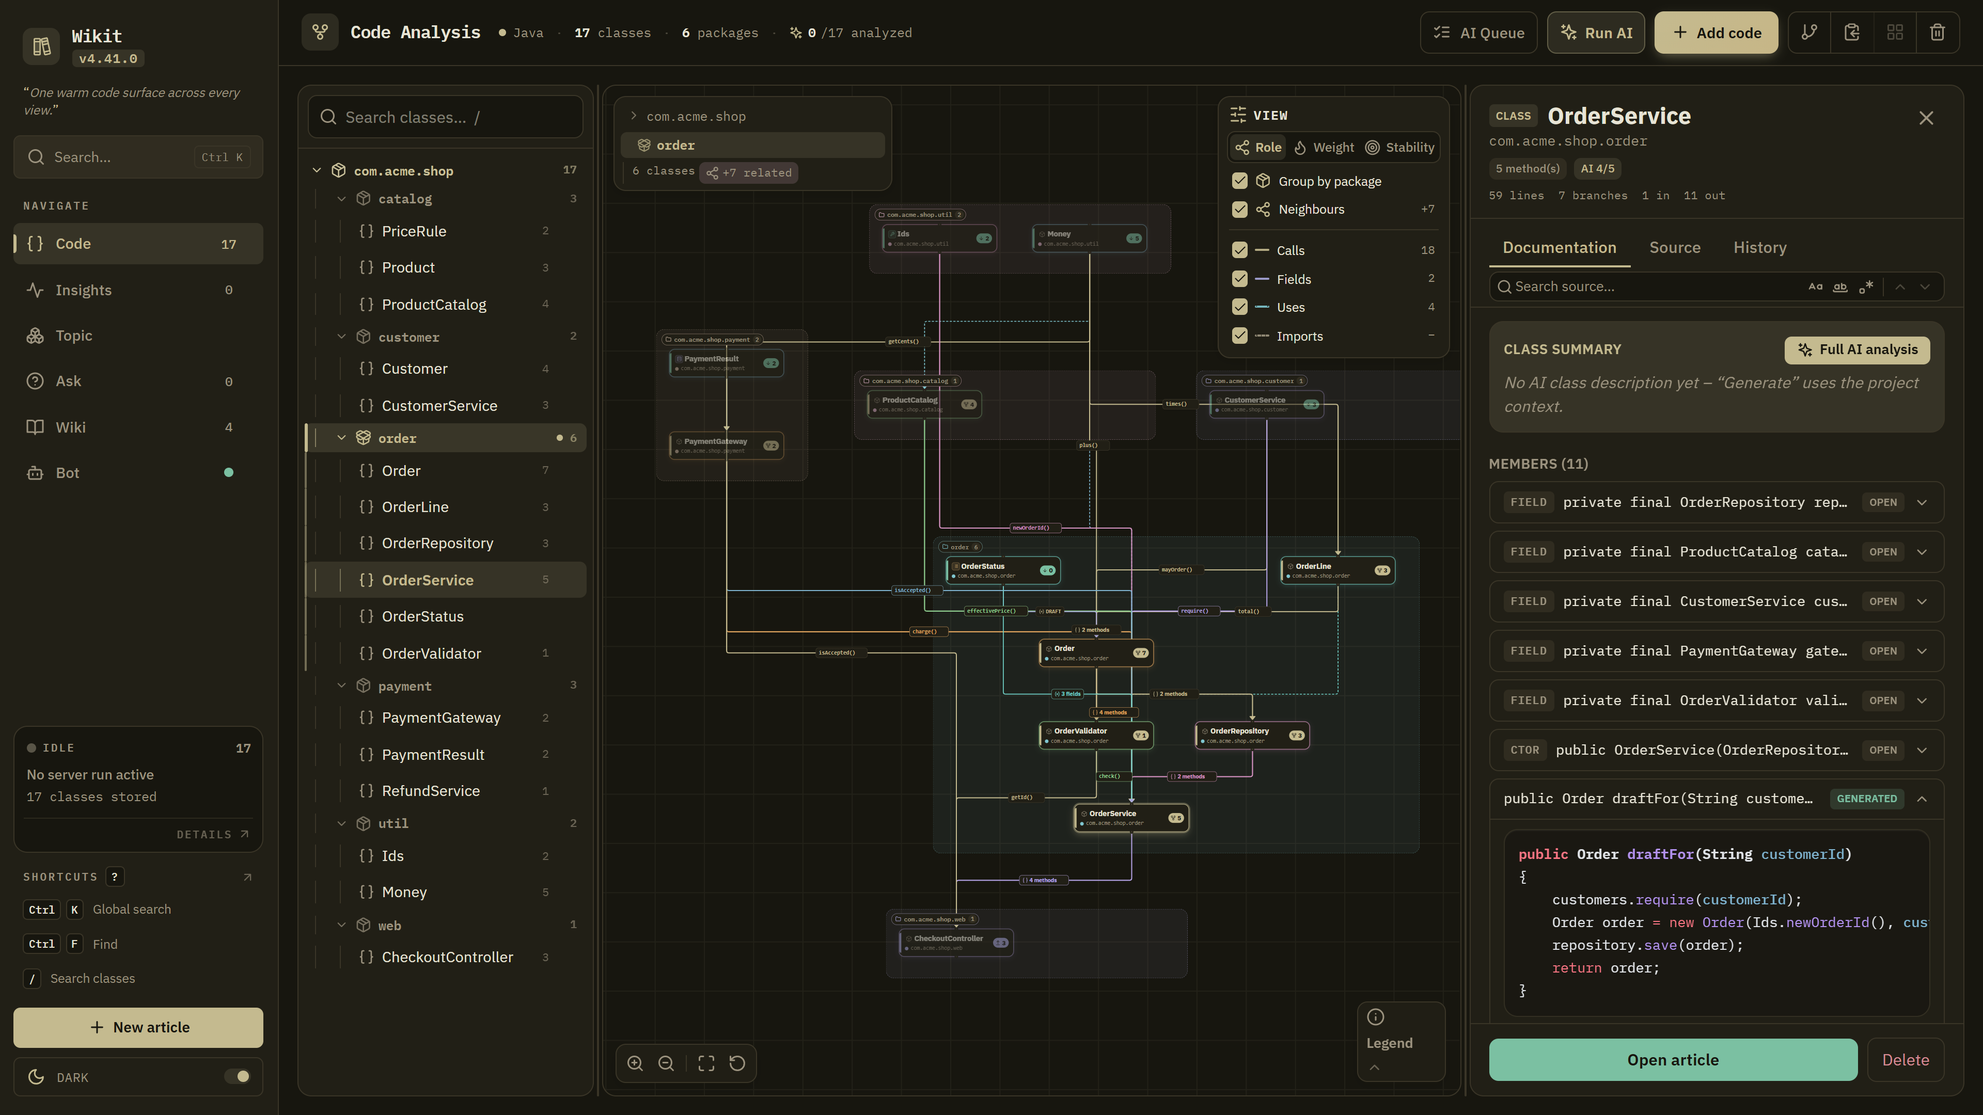
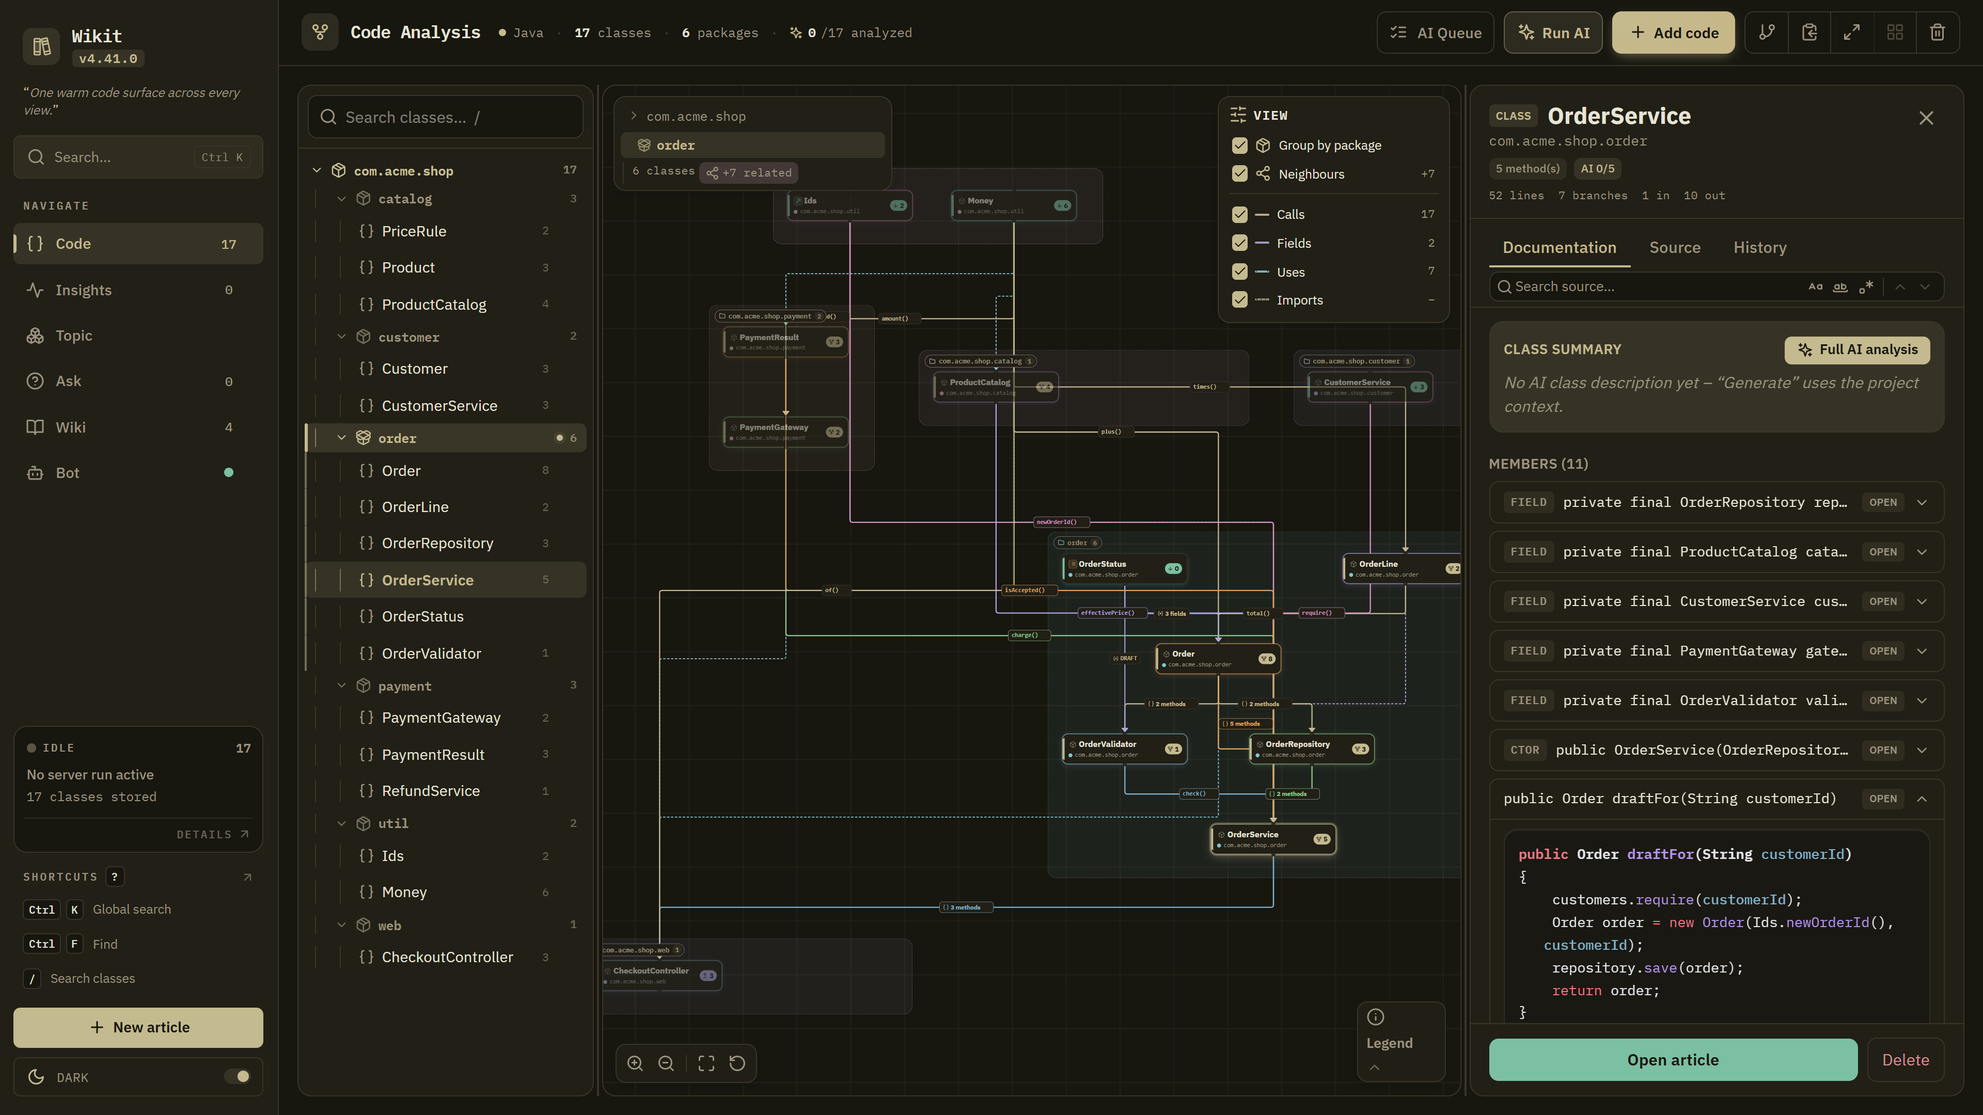
upd: wrapped code and wide detail panel

diff --git a/frontend/src/composables/usePanelResize.js b/frontend/src/composables/usePanelResize.js
@@ -5,6 +5,10 @@
 // Die zwei `{R}px`-Tracks sind die Divider; fr verteilt den Restplatz proportional, die
 // Mindestbreite (MIN) bleibt sauber erhalten.
 //
+// Drei Wege, die Breiten zu aendern, und sie unterscheiden sich in ihrer Verbindlichkeit:
+// Ziehen (Einstellung, bleibt) · `toggleWide` (Entscheidung, bleibt, mit Rueckweg) ·
+// `focusRight` (geliehen, wird beim naechsten Klick zurueckgegeben).
+//
 // View-lokaler State (frische Instanz pro Aufruf, KEIN Modul-Singleton) – kein Pinia/Vuex.
 // Drag-Listener haengen am `window`, damit das Ziehen nicht abbricht, wenn die Maus den
 // schmalen Divider (oder den Graphen) verlaesst. Eingestellte Breiten ueberleben einen
@@ -35,17 +39,6 @@ function isValidTriple(v) {
 export function usePanelResize() {
   const widths = reactive({ ...DEFAULTS })
 
-  // Persistierte Aufteilung wiederherstellen (best effort).
-  try {
-    const raw = localStorage.getItem(STORAGE_KEY)
-    if (raw) {
-      const parsed = JSON.parse(raw)
-      if (isValidTriple(parsed)) Object.assign(widths, parsed)
-    }
-  } catch {
-    /* localStorage nicht verfuegbar -> Defaults */
-  }
-
   const isDragging = ref(false)
   const activeKey = ref(null) // 'left' | 'right' | null -> hebt den gezogenen Divider hervor
 
@@ -59,6 +52,36 @@ export function usePanelResize() {
   // gut ein Drittel und bleibt damit lesbar – auf 52 % schrumpfte er auf einen Streifen.
   const FOCUS_RIGHT = 44
   const isFocused = computed(() => borrowed.value !== null)
+
+  // --- Breit lesen -------------------------------------------------------------------------
+  // Anders als die geliehene Breite ist das eine ENTSCHEIDUNG: sie bleibt, bis man sie zuruecknimmt,
+  // und ueberlebt deshalb auch den Reload. Der Platz kommt aus der MITTE – den Graphen liest
+  // niemand, waehrend er eine Klasse liest. Links bleibt stehen, was es ist: die Navigation, mit der
+  // man zur naechsten Klasse kommt. `stash` haelt die Aufteilung von vorher.
+  const wide = ref(false)
+  let stash = null
+
+  // Persistierte Aufteilung wiederherstellen (best effort). Steht hinter den Deklarationen, weil der
+  // gemerkte Stand auch den Breit-Modus umfasst.
+  try {
+    const raw = localStorage.getItem(STORAGE_KEY)
+    if (raw) {
+      const parsed = JSON.parse(raw)
+      if (isValidTriple(parsed)) {
+        widths.left = parsed.left
+        widths.center = parsed.center
+        widths.right = parsed.right
+        // Der Breit-Modus gilt nur mit gemerkter Ruecksprung-Aufteilung – ohne sie waere „zurueck"
+        // ein Knopf ohne Ziel.
+        if (parsed.wide && isValidTriple(parsed.stash)) {
+          wide.value = true
+          stash = { left: parsed.stash.left, center: parsed.stash.center, right: parsed.stash.right }
+        }
+      }
+    }
+  } catch {
+    /* localStorage nicht verfuegbar -> Defaults */
+  }
 
   const isDirty = computed(
     () =>
@@ -83,7 +106,7 @@ export function usePanelResize() {
 
   function persist() {
     try {
-      localStorage.setItem(STORAGE_KEY, JSON.stringify({ ...widths }))
+      localStorage.setItem(STORAGE_KEY, JSON.stringify({ ...widths, wide: wide.value, stash }))
     } catch {
       /* ignore */
     }
@@ -123,7 +146,11 @@ export function usePanelResize() {
     e.preventDefault() // verhindert Textselektion waehrend des Ziehens
     // Wer selbst zieht, uebernimmt: die geliehene Breite wird zu SEINER Breite (inkl. persist beim
     // Loslassen). Ein spaeteres Zurueckspringen waere hier ein Zustand, den niemand mehr erwartet.
+    // Dasselbe gilt fuer den Breit-Modus: sein Knopf zeigt „an", und die Breite ist bereits eine
+    // andere – das waere eine Anzeige, die luegt.
     borrowed.value = null
+    wide.value = false
+    stash = null
     const gridEl = e.currentTarget.parentElement
     const rect = gridEl.getBoundingClientRect()
     const availablePx = Math.max(1, rect.width - 2 * RESIZER_PX) // px-Raum fuer die 100 fr
@@ -168,8 +195,28 @@ export function usePanelResize() {
     borrowed.value = null
   }
 
+  // Detail-Panel dauerhaft breit machen (und wieder zurueck). Kein Effekt im gestapelten Layout –
+  // dort gibt es keine Spalten, zwischen denen sich Platz verschieben liesse.
+  function toggleWide() {
+    if (!isWide.value) return
+    if (wide.value) {
+      if (stash) Object.assign(widths, stash)
+      stash = null
+      wide.value = false
+    } else {
+      stash = { ...widths }
+      borrowed.value = null // eine geliehene Breite waere hier nur noch ein Ruecksprung ins Nichts
+      widths.center = MIN
+      widths.right = 100 - widths.left - MIN
+      wide.value = true
+    }
+    persist()
+  }
+
   function reset() {
     borrowed.value = null
+    wide.value = false
+    stash = null
     Object.assign(widths, DEFAULTS)
     persist()
   }
@@ -188,9 +235,11 @@ export function usePanelResize() {
     activeKey,
     isDirty,
     isFocused,
+    wide,
     startDrag,
     focusRight,
     releaseFocus,
+    toggleWide,
     reset,
   }
 }

diff --git a/frontend/src/views/CodeView.vue b/frontend/src/views/CodeView.vue
@@ -59,9 +59,11 @@ const {
   activeKey,
   isDirty: panelsDirty,
   isFocused: panelsFocused,
+  wide: panelsWide,
   startDrag,
   focusRight,
   releaseFocus,
+  toggleWide,
   reset: resetPanels,
 } = usePanelResize()
 
@@ -439,6 +441,13 @@ function onKeydown(e) {
     if (!typing && e.altKey && !mod && e.key === 'ArrowLeft') {
       e.preventDefault()
       graphRef.value?.drillUp?.()
+    }
+    // Alt+W macht die Detailspalte breit (und wieder schmal). Bewusst mit Alt: Ctrl+Shift+W
+    // schliesst im Browser das Fenster, und ein blosses `w` verschluckte die Folge „g, w".
+    // `e.code` statt `e.key`, weil Alt auf dem Mac Sonderzeichen erzeugt.
+    if (!typing && e.altKey && !mod && e.code === 'KeyW') {
+      e.preventDefault()
+      toggleWide()
     }
     return
   }
@@ -1426,6 +1435,22 @@ function onResetPanels() {
             >
               <Icon icon="lucide:clipboard-copy" class="h-4 w-4 shrink-0" />
             </button>
+            <!-- Breit lesen. Steht direkt vor „Reset layout", weil beide dieselbe Sache regeln –
+                 wie viel Platz welche Spalte bekommt. -->
+            <button
+              type="button"
+              class="tool-btn"
+              :class="{ 'is-on': panelsWide }"
+              :disabled="!isWide"
+              :aria-pressed="panelsWide"
+              v-tip="panelsWide
+                ? { title: 'Back to the normal layout', hint: 'Gives the graph its width back (Alt+W).' }
+                : { title: 'Wide code panel', hint: 'Puts the space into the detail column — the graph steps aside (Alt+W).' }"
+              aria-label="Wide code panel"
+              @click="toggleWide"
+            >
+              <Icon :icon="panelsWide ? 'lucide:minimize-2' : 'lucide:maximize-2'" class="h-4 w-4 shrink-0" />
+            </button>
             <button
               type="button"
               class="tool-btn"
@@ -1945,8 +1970,11 @@ function onResetPanels() {
         <span class="panel-resizer__grip" />
       </div>
 
-      <!-- Spalte 3: Detail – wahlweise die geoeffnete Klasse oder die angeklickte Beziehung. -->
-      <div class="flex min-h-0 flex-col gap-2">
+      <!-- Spalte 3: Detail – wahlweise die geoeffnete Klasse oder die angeklickte Beziehung.
+           `code-soft-wrap` gilt fuer die ganze Spalte und damit fuer alle drei Panels auf einmal:
+           hier wird Code GELESEN, also bricht er um, statt sich waagerecht wegzuschieben (s.
+           style.css). Eine Klasse an einer Stelle – kein Schalter, kein Zustand. -->
+      <div class="code-soft-wrap flex min-h-0 flex-col gap-2">
         <!-- Umschalter, nur solange eine Beziehung offen ist. Ohne sie gibt es nichts zu waehlen,
              und eine Leiste mit einem einzigen, immer aktiven Knopf waere blosse Dekoration. -->
         <Transition name="pop">
@@ -2270,6 +2298,16 @@ function onResetPanels() {
   color: var(--color-accent);
   opacity: 1;
   cursor: progress;
+}
+/* Eingeschaltet (Breit-Modus): derselbe Akzent wie beim laufenden Vorgang, aber ohne dessen
+   Cursor – das hier ist kein Zustand, der von selbst endet, sondern einer, den man zuruecknimmt.
+   Der Hover-Fall steht ausdruecklich dabei: `.tool-btn:hover:not(:disabled)` hat die hoehere
+   Spezifitaet und faerbte den eingeschalteten Knopf ausgerechnet dann zurueck, wenn der Zeiger
+   darauf steht – also genau im Moment des Umschaltens. */
+.tool-btn.is-on,
+.tool-btn.is-on:hover:not(:disabled) {
+  background: var(--color-accent-soft);
+  color: var(--color-accent);
 }
 /* Destruktiv erst beim Hover: in Ruhe ist sie so gedaempft wie ihre Nachbarn, weil Rot als
    Dauerzustand in der Kopfzeile eine Warnung waere, die niemanden mehr erreicht. */

diff --git a/frontend/src/components/java/JavaEdgeDetailPanel.vue b/frontend/src/components/java/JavaEdgeDetailPanel.vue
@@ -773,7 +773,12 @@ watch(
                        Kopier-Button. Der Kopier-Button sitzt bewusst hier (nicht schwebend ueber dem
                        Code), damit er die Signatur-Zeile nicht ueberdeckt und die Parameter-Variablen
                        klickbar bleiben. -->
-                  <div class="flex items-center gap-2 px-3 py-2">
+                  <!-- `flex-wrap` + umbrechender Name: ein Methodenname kann laenger sein als die
+                       Spalte breit ist. Ohne beides schob er die Werkzeuge rechts (Sprung, Kopieren)
+                       aus der Karte, und `overflow-hidden` schnitt sie ersatzlos ab – der Name war
+                       dann unvollstaendig UND die Knoepfe weg. Gleiche Regel wie beim Code darunter:
+                       umbrechen statt hinauslaufen. -->
+                  <div class="flex flex-wrap items-center gap-2 px-3 py-2">
                     <!-- Farb-Badge = Identitaet dieser Methode; dasselbe Zeichen steht unten an
                          jeder Aufrufstelle, die sie ruft. -->
                     <span class="mc-badge">
@@ -781,7 +786,7 @@ watch(
                            Methode, das Variablenzeichen fuer ein Feld. -->
                       <Icon :icon="isField ? 'lucide:variable' : 'lucide:braces'" class="h-3.5 w-3.5" />
                     </span>
-                    <code class="mc-name font-mono text-sm font-semibold">{{ memberName(c.name) }}</code>
+                    <code class="mc-name min-w-0 break-all font-mono text-sm font-semibold">{{ memberName(c.name) }}</code>
                     <span v-if="c.needsReview" class="review-badge shrink-0">
                       <Icon icon="lucide:alert-triangle" class="h-3 w-3 shrink-0" />
                       Please review
@@ -940,13 +945,15 @@ watch(
                            getrennt (kein Aneinanderreihen). Der Callee traegt die Farbe seiner
                            Definitionskarte oben – Streifen, Badge, Aufrufzeile und Code-Token ziehen
                            dieselbe Variable. -->
-                      <div class="flex items-center gap-2 border-b border-line px-3 py-2">
+                      <!-- Umbrechend wie der Quelle-Header oben: die Aufruf-Kette traegt ZWEI
+                           Methodennamen und laeuft noch schneller aus der Karte. -->
+                      <div class="flex flex-wrap items-center gap-2 border-b border-line px-3 py-2">
                         <span class="mc-badge">
                           <Icon icon="lucide:corner-down-right" class="h-3.5 w-3.5" />
                         </span>
-                        <code class="font-mono text-sm font-semibold text-ink">{{ callerName(grp.callerMethod, grp.callerIsField) }}</code>
+                        <code class="min-w-0 break-all font-mono text-sm font-semibold text-ink">{{ callerName(grp.callerMethod, grp.callerIsField) }}</code>
                         <Icon icon="lucide:arrow-right" class="h-3.5 w-3.5 shrink-0 text-muted" />
-                        <code class="mc-name font-mono text-sm font-semibold">{{ memberName(site.calleeMethod) }}</code>
+                        <code class="mc-name min-w-0 break-all font-mono text-sm font-semibold">{{ memberName(site.calleeMethod) }}</code>
                         <!-- Genau diese Zeile ist die geratene Stelle -> das Badge gehoert hierher,
                              nicht nur an die Definition oben. -->
                         <span

diff --git a/frontend/src/components/java/JavaClassDetail.vue b/frontend/src/components/java/JavaClassDetail.vue
@@ -53,6 +53,11 @@ const loading = ref(true)
 const error = ref('')
 const tab = ref('doc') // 'doc' | 'source' | 'history'
 const sourceEditor = ref(null) // JavaCodeEditor im Quellcode-Tab (fuer highlightLine)
+// Der Quellcode-Tab bekommt die Resthoehe des Panels statt eines festen Fensters: sonst scrollt man
+// einen 60vh-Editor INNERHALB eines zweiten Scrollcontainers – zwei Balken fuer eine Bewegung, und
+// auf einem hohen Monitor bleibt die untere Haelfte des Panels leer. Nur dieser eine Tab; Doku und
+// History sind Fliesstext und brauchen den gewoehnlichen Scroll des Rumpfes.
+const sourceFills = computed(() => tab.value === 'source' && !!file.value && !loading.value && !error.value)
 const openMethod = ref(null)
 const fullBusy = ref(false) // waehrend des Einreihens der Voll-Analyse
 const notice = ref('')
@@ -781,7 +786,10 @@ async function removeFile() {
       </div>
     </div>
 
-    <div class="min-h-0 flex-1 overflow-y-auto px-4 py-3">
+    <div
+      class="min-h-0 flex-1 px-4 py-3"
+      :class="sourceFills ? 'flex flex-col overflow-hidden' : 'overflow-y-auto'"
+    >
       <!-- Ladezustand: sagt WAS geladen wird (aus der Klassenliste ist es bereits bekannt), WIE
            LANGE schon, und zeigt die Form der kommenden Ansicht als Skelett. Ein blosses
            „Loading…" liess das Panel bei einer grossen Klasse sekundenlang leer wirken. -->
@@ -879,7 +887,7 @@ async function removeFile() {
 
         <!-- QUELLCODE-TAB: read-only CodeMirror (Java-Syntax-Highlighting) -->
         <template v-else-if="tab === 'source'">
-          <div class="code-wrap h-[60vh] min-h-[20rem]">
+          <div class="code-wrap min-h-0 flex-1">
             <button
               type="button"
               class="code-copy z-10 opacity-100"
@@ -1040,6 +1048,13 @@ async function removeFile() {
    globale .shiki-Default; Dual-Theme-Farben kommen weiterhin aus den inline --shiki-*-Variablen. */
 .method-code :deep(.shiki) {
   @apply p-3 text-xs leading-relaxed;
+}
+
+/* Die Zeilen kommen aus `processMethodBody` OHNE `\n` zwischen sich – der Umbruch ist genau diese
+   Regel (dieselbe Bauart wie `.edge-code .line` in style.css). Sie steht hier, weil sie zu dem
+   HTML gehoert, das diese Komponente sich bauen laesst, und nicht zur Spalte, in der es haengt. */
+.method-code :deep(.line) {
+  display: block;
 }
 
 /* Vorangestellte Signaturzeile (server-gerendertes Shiki-HTML, inkl. Modifier): nur fett als

diff --git a/frontend/src/assets/style.css b/frontend/src/assets/style.css
@@ -526,6 +526,40 @@ body {
   font-weight: 700;
 }
 
+/* --- Code in der Detailspalte bricht um (`/code`, Spalte 3) ------------------------------------
+ * Dort wird gelesen, und zwar in einer Spalte, deren Breite von der Fensterbreite abhaengt und
+ * nicht von der laengsten Zeile der Klasse. Eine Zeile, die nicht passt, bricht deshalb UM statt
+ * die Flaeche waagerecht wegzuschieben: senkrecht scrollen ist ein Bedienweg, waagerecht scrollen
+ * in einer schmalen Spalte ist keiner.
+ *
+ * Der haengende Einzug ist der eigentliche Punkt: ohne ihn beginnt die Fortsetzung am linken Rand
+ * und liest sich wie eine neue Anweisung. Mit ihm sagt der Einzug „das gehoert noch zur Zeile
+ * darueber" – dieselbe Aussage, die CodeMirror-Zeilen im Source-Tab tragen (JavaCodeEditor.vue).
+ *
+ * Gilt bewusst nur unter dieser Klasse: Artikel-Codebloecke und die Bloecke in /insights sind
+ * ganze Dateien in voller Breite, dort ist der waagerechte Scroll richtig. */
+.code-soft-wrap .shiki {
+  overflow-x: hidden;
+  white-space: pre-wrap;
+  /* Ein einzelner uebermaessig langer Bezeichner (FQCN, String-Literal, base64) hat keine
+     Umbruchstelle – `break-word` gibt ihm eine, statt ihn doch wieder hinauslaufen zu lassen. */
+  overflow-wrap: break-word;
+}
+/* Der Einzug setzt voraus, dass die Zeile ein BLOCK ist – das bringt jeder dieser Bloecke selbst
+   mit (`.edge-code`/`.edge-usage-code` hier, `.method-code` in JavaClassDetail), weil es davon
+   abhaengt, wie sein HTML gebaut wurde (mit oder ohne `\n` zwischen den Zeilen, s. lib/javaCode.js). */
+.code-soft-wrap .shiki .line {
+  padding-left: 3ch;
+  text-indent: -3ch;
+}
+/* Bloecke mit Gutter (Kanten- und Buendel-Panel): der negative Einzug muss die Zeilennummer MIT
+   aufnehmen (`::before` ist 3rem breit, dazu 0.85rem Abstand), sonst rutschte sie in den Text. */
+.code-soft-wrap .edge-code .line,
+.code-soft-wrap .edge-usage-code .line {
+  padding-left: calc(3.85rem + 3ch);
+  text-indent: calc(-3.85rem - 3ch);
+}
+
 /* --- Code in `prose`-Containern ---------------------------------------------------------------
  * Tailwind Typography malt `pre` aus `--tw-prose-pre-bg` (Slate #1e293b) – ein Ton, den es in
  * dieser Palette nicht gibt. Getroffen sind ALLE prose-Flaechen, und zwei davon rendern ihr

diff --git a/frontend/src/lib/javaCode.js b/frontend/src/lib/javaCode.js
@@ -244,11 +244,14 @@ export function processMethodBody(html, { collapseBlank = false, signatureHtml =
     // Weder Rumpf noch Signatur -> nichts zu tun.
     if (!kept.length && !sigLines.length) return html
 
-    // Frisches <code> mit Signaturzeile(n) + gehaltenen Rumpfzeilen (durch `\n`-Textnodes getrennt).
+    // Frisches <code> mit Signaturzeile(n) + gehaltenen Rumpfzeilen – OHNE `\n`-Textnodes, genau
+    // wie in `addLineNumbers`/`buildCallWindow` oben. Der Zeilenumbruch kommt aus
+    // `.method-code .line { display: block }` (JavaClassDetail). Das ist die Voraussetzung dafuer,
+    // dass eine zu lange Zeile mit haengendem Einzug umbrechen kann: mit `\n` dazwischen ergaebe
+    // derselbe `display:block` doppelte Zeilenabstaende.
     // Kein `{` anhaengen: der Rumpf kann bereits Klammern enthalten (s. DECL_RE-Strip oben).
     const code = doc.createElement('code')
-    ;[...sigLines, ...kept].forEach((el, i) => {
-      if (i > 0) code.appendChild(doc.createTextNode('\n'))
+    ;[...sigLines, ...kept].forEach((el) => {
       code.appendChild(el)
     })
     const oldCode = pre.querySelector('code')

diff --git a/frontend/src/components/java/JavaCodeEditor.vue b/frontend/src/components/java/JavaCodeEditor.vue
@@ -370,6 +370,12 @@ onMounted(() => {
       '&': { height: '100%' },
       '.cm-scroller': { fontFamily: '"IBM Plex Mono", ui-monospace, SFMono-Regular, Menlo, monospace', fontSize: '0.8125rem', lineHeight: '1.6' },
       '.cm-content': { padding: '12px 0' },
+      // Haengender Einzug fuer umbrochene Zeilen (`lineWrapping` oben): die Fortsetzung sitzt
+      // eingerueckt unter dem Zeilenanfang und liest sich damit nicht wie eine neue Anweisung.
+      // 6px ist CodeMirrors eigenes `.cm-line`-Padding links – ohne den Zuschlag verschoebe sich
+      // die erste Zeile gegen den Gutter. Gleiche Aussage wie `.code-soft-wrap .shiki .line`
+      // (style.css) fuer die Shiki-Bloecke daneben.
+      '.cm-line': { paddingLeft: 'calc(6px + 3ch)', textIndent: '-3ch' },
     }),
   ]
   if (props.readonly) {

diff --git a/frontend/src/lib/shortcuts.js b/frontend/src/lib/shortcuts.js
@@ -56,6 +56,7 @@ export const SHORTCUTS = [
   },
   { id: 'find-graph', keys: ['mod+shift+f'], scope: 'code', label: 'Jump to search', hint: 'the search on the left, whatever is open' },
   { id: 'step', keys: ['enter'], scope: 'code', label: 'Next match', hint: 'in the search — the graph moves to it, Shift+↵ goes back' },
+  { id: 'wide', keys: ['alt+w'], scope: 'code', label: 'Wide code panel', hint: 'the detail column takes the graph’s width — press again to go back' },
   { id: 'analyze', keys: ['mod+enter'], scope: 'code', label: 'Run analysis', hint: 'inside “Add code”' },
 
   // --- Wiki ---

diff --git a/frontend/src/components/java/JavaDiffViewer.vue b/frontend/src/components/java/JavaDiffViewer.vue
@@ -72,6 +72,9 @@ onMounted(() => {
       '&': { height: '100%' },
       '.cm-scroller': { fontFamily: 'ui-monospace, SFMono-Regular, Menlo, monospace', fontSize: '0.8125rem', lineHeight: '1.6' },
       '.cm-content': { padding: '8px 0' },
+      // Haengender Einzug wie im Quellcode-Tab (JavaCodeEditor) – Diff und Quelltext liegen im
+      // selben Panel uebereinander und duerfen nicht unterschiedlich umbrechen.
+      '.cm-line': { paddingLeft: 'calc(6px + 3ch)', textIndent: '-3ch' },
     }),
   ]
   const state = EditorState.create({ doc: props.diff || '', extensions })
